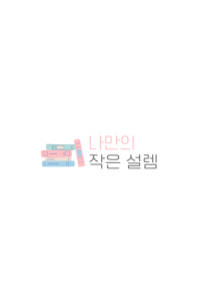
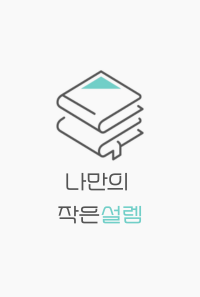
✨ feat: [#100] landing page 추가

Changed region(s): [[0.21, 0.2121, 0.81, 0.7576]]

diff --git a/src/components/Landing/ServiceInfo.tsx b/src/components/Landing/ServiceInfo.tsx
@@ -1,0 +1,140 @@
+import useSignIn from '@components/SignIn/hook/useSignIn';
+import { Button } from '@components/common';
+import styled from 'styled-components';
+
+const logoImg = new URL('../../assets/landing/logo.png', import.meta.url).href;
+const libraryImg = new URL(
+  '../../assets/landing/librarypage.png',
+  import.meta.url
+).href;
+const bookdetailImg = new URL(
+  '../../assets/landing/bookdetail.png',
+  import.meta.url
+).href;
+const memobookImg = new URL(
+  '../../assets/landing/memobookdetail.png',
+  import.meta.url
+).href;
+const memberMemoImg = new URL(
+  '../../assets/landing/memberMemo.png',
+  import.meta.url
+).href;
+
+export default function ServiceInfo() {
+  const { guestSignIn } = useSignIn();
+  return (
+    <Wrapper>
+      <Img src={logoImg} alt="service-logo" />
+
+      <SButton
+        type="button"
+        styleType="solidPositive"
+        size="medium"
+        onClick={guestSignIn}
+      >
+        서비스 체험하기
+      </SButton>
+      <FeatureWrapper>
+        <Title>
+          검색한 책을 나만의 서재에 <br />
+          등록할 수 있어요
+        </Title>
+        <SubTitle>
+          읽고 싶은 책, 읽고 있는 책, 다 읽은 책 <br />
+          세 가지 상태로 <br />
+          책을 관리할 수 있어요
+        </SubTitle>
+        <Img src={libraryImg} alt="search-feature" />
+      </FeatureWrapper>
+      <FeatureWrapper>
+        <Title>독서 상태를 기록할 수 있어요</Title>
+        <SubTitle>
+          책을 읽기 시작 날짜, 종료 날짜, <br />
+          책에 대한 별점, 현재 읽고 있는 페이지를 <br />
+          기록할 수 있습니다
+        </SubTitle>
+        <Img src={bookdetailImg} alt="bookdetail-feature" />
+      </FeatureWrapper>
+      <FeatureWrapper>
+        <Title>
+          책을 읽으면서 남긴 메모를 <br />
+          특별하게 모아볼 수 있어요
+        </Title>
+        <SubTitle>
+          배경 이미지를 선택해서 <br />
+          메모를 조회할 수 있어요. <br />
+          메모를 이미지 파일로 저장할 수도 있습니다
+        </SubTitle>
+        <Img src={memobookImg} alt="memobook-feature" />
+      </FeatureWrapper>
+      <FeatureWrapper>
+        <Title>
+          명예의 전당에서
+          <br /> 다른 회원의 독서활동을 <br />
+          확인할 수 있어요
+        </Title>
+        <SubTitle>
+          다른 회원의 서재를 조회할 수 있어요 <br />
+          마음에 드는 메모를 발견하면 <br />
+          좋아요를 남겨보세요.
+        </SubTitle>
+        <Img src={memberMemoImg} alt="member-memo-feature" />
+      </FeatureWrapper>
+      <FeatureWrapper>
+        <Title>
+          나만의 작은 설렘 서비스와 함께
+          <br /> 독서의 즐거움을 경험해 보세요
+        </Title>
+        <SButton
+          type="button"
+          styleType="solidPositive"
+          size="medium"
+          onClick={guestSignIn}
+        >
+          서비스 체험하기
+        </SButton>
+      </FeatureWrapper>
+    </Wrapper>
+  );
+}
+
+const Wrapper = styled.div`
+  display: flex;
+  flex-direction: column;
+  align-items: center;
+  width: 100%;
+`;
+
+const Img = styled.img`
+  width: 100%;
+  margin-top: 2rem;
+`;
+
+const SButton = styled(Button)`
+  width: 100%;
+  margin-top: 2rem;
+  margin-bottom: 2rem;
+`;
+
+const FeatureWrapper = styled.div`
+  margin: 2rem 0;
+  width: 100%;
+  text-align: center;
+  line-height: 2.5rem;
+  font-family: 'LINESeedKR-Bd';
+`;
+
+const Title = styled.h2`
+  font-size: ${({ theme }) => theme.fontSize.lg};
+  font-weight: 700;
+  line-height: 2.5rem;
+  color: #545454;
+  margin-bottom: 1rem;
+`;
+
+const SubTitle = styled.h3`
+  font-size: ${({ theme }) => theme.fontSize.md};
+  font-weight: 900;
+  line-height: 2rem;
+  color: ${({ theme }) => theme.color.gray02};
+`;

diff --git a/index.html b/index.html
@@ -5,6 +5,10 @@
     <link rel="icon" type="image/svg+xml" href="/favicon.ico" />
     <meta name="viewport" content="width=device-width, initial-scale=1.0" />
     <title>나만의 작은 설렘</title>
+    <meta
+      name="description"
+      content="읽은 책을 관리하고, 책과 관련된 메모를 관리할 수 있는 독서기록 관리 서비스입니다."
+    />
   </head>
 
   <body>

diff --git a/src/styles/GlobalStyle.ts b/src/styles/GlobalStyle.ts
@@ -24,6 +24,13 @@ export const GlobalStyle = createGlobalStyle`
     font-style: normal;
   }
 
+  @font-face {
+    font-family: 'LINESeedKR-Bd';
+    src: url('https://cdn.jsdelivr.net/gh/projectnoonnu/noonfonts_11-01@1.0/LINESeedKR-Bd.woff2') format('woff2');
+    font-weight: 700;
+    font-style: normal;
+  }
+
 
   *{
     box-sizing: border-box;

diff --git a/src/pages/Landing.tsx b/src/pages/Landing.tsx
@@ -1,9 +1,5 @@
-import { Button } from '@components/common';
+import ServiceInfo from '@components/Landing/ServiceInfo';
 
 export default function Landing() {
-  return (
-    <Button type="button" styleType="solidPositive" size="medium">
-      서비스 체험하기
-    </Button>
-  );
+  return <ServiceInfo />;
 }

diff --git a/src/styles/theme.ts b/src/styles/theme.ts
@@ -21,8 +21,6 @@ const fontSize = {
   md: '1.25rem',
   lg: '1.5rem',
 } as const;
-const boxShadow = {};
-
 export type ColorType = typeof color;
 export type FontSizeType = typeof fontSize;
 
